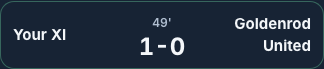
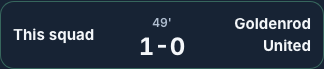
docs(copy): fix round 1 decision log, STATE and scoreboard proof
Claude-Session: https://claude.ai/code/session_01DTp1YoYMSvPZ3BKnAowv2J

Changed region(s): [[0.0309, 0.4058, 0.3086, 0.6377]]

diff --git a/docs/decisions/copy-pass.md b/docs/decisions/copy-pass.md
@@ -1,7 +1,8 @@
 # Copy pass and dash lint (Wave 4, row 4e)
 
-Branch `fix/copy-pass` off `origin/main` at `34af10e`. Yellow. No file under `src/engine`,
-`src/data` or `src/scouting` changed, so the goldens are untouched.
+Branch `fix/copy-pass` off `origin/main` at `34af10e`, with `origin/main` merged at `124afab`
+(PR #113, row 4-0) in fix round 1. Yellow. No file under `src/engine`, `src/data` or
+`src/scouting` changed, so the goldens are untouched.
 
 ## Scope
 
@@ -15,7 +16,9 @@ Branch `fix/copy-pass` off `origin/main` at `34af10e`. Yellow. No file under `sr
 - The blind-mode hints follow decision 3.
 - A shared run says "This squad" and "This lineup" where a live run says "You", "Your team",
   "Your XI", "Your squad" and "Your lineup". That covers the result card, the group table, the
-  replay's group table, the recorded saves and the match events.
+  replay's group table, the recorded saves and the match events. Since fix round 1 it also covers
+  the shared match player: the scoreboard, the full screen score bug, the momentum meter, the
+  tactic banner and the ticker.
 - Scores are "1-0" on the scoreboard, the penalties line, the full-time line and the exhibition.
 - The history page interpolates `HISTORY_LIMIT`.
 - `check:dashes` (`scripts/audit/dash-lint.mjs`) fails on an em or en dash in copy under `src`,
@@ -102,6 +105,59 @@ events, which the engine-1 unit fixture has none of.
 Regression guards, no RED (behaviour already correct): "a live run still says You and Your team",
 the history heading "Your last 50 runs" in `copy-pass.spec.ts`, and `lintDashes` finding no dash
 in `src` today.
+
+## Fix round 1
+
+`git merge origin/main` (never a rebase) brought in PR #113 (`124afab`) as merge commit `9353da8`.
+Only `STATE.md` conflicted, and `resolve-state.py` resolved it with the #113 paragraph. Git merged
+`MatchPlayer.tsx`, `MatchdayFlow.tsx` and `Touchline.tsx` on its own. After the merge no spaced
+score is left in them, and `pnpm check:dashes` passes with 4-0's new copy included.
+
+The carryover reproduced at the merge head. A shared run's replay still said "Your XI" on the
+scoreboard and score bug, "Your side 50%" on the momentum meter, "Your side switch to Defend" on
+the tactic banner and "75' Your assistant switches to Defend" in the ticker.
+
+RED `8d5558d`: 2 of 7 failed in 2 files. GREEN `3af2e35`.
+
+```
+ FAIL  src/components/matchday/__tests__/Broadcast.sharedSide.test.tsx > Broadcast tactic banner (catches a shared run's banner saying Your side) > a shared run says This squad switches to Defend
+AssertionError: expected 'Your side switch to Defend' to be 'This squad switches to Defend' // Object.is equality
+
+Expected: "This squad switches to Defend"
+Received: "Your side switch to Defend"
+
+ FAIL  src/components/results/__tests__/MatchReplay.test.tsx > MatchReplay on a shared run (catches the shared match player still saying Your XI and Your assistant) > names the shared side This squad on the scoreboard, the momentum meter and the ticker
+AssertionError: expected 'Your XI' to be 'This squad' // Object.is equality
+
+Expected: "This squad"
+Received: "Your XI"
+
+     × a shared run says This squad switches to Defend 37ms
+     × names the shared side This squad on the scoreboard, the momentum meter and the ticker 16ms
+ Test Files  2 failed (2)
+      Tests  2 failed | 5 passed (7)
+```
+
+The two live guards ("the live run still says Your side switch to Defend" and "keeps Your XI,
+Your side and Your assistant on the live run") passed at RED. They are regression guards with no
+RED.
+
+Decisions:
+
+- **Variant through props.** `MatchReplay` passes its `variant` to `MatchPlayer`, and
+  `MatchPlayer` passes it to `Broadcast`. Both default to `"live"`, so `MatchdayFlow` and the
+  exhibition replay keep "Your XI". The strings come from `SIDE_COPY`, which gains `ourSide`
+  ("Your side" or "This squad") and `switchesTo` (Model the Domain: one table, no new branches in
+  the components). The `TEAMS_USER` constant is gone.
+- **Ticker.** `beatLine` takes the same `shared` flag that `incidentText` already took, so the
+  ticker says what the results' match events say: "75' This squad's assistant switches to Defend".
+- **Banner grammar.** The live banner keeps "Your side switch to Defend", and an opponent keeps
+  "Goldenrod United switch to Defend". The shared banner reads "This squad switches to Defend",
+  the same verb the shared match events already use. The two shared lines read alike.
+- **Guard placement.** The scoreboard, meter and ticker guard renders `MatchReplay`, so it fails
+  if the replay stops passing `variant`. The banner guard renders `Broadcast` with only the 75'
+  switch marked as fired. In the golden G1 a sub fires on the same tick and would take the
+  banner.
 
 ## Measurements
 
@@ -194,8 +250,32 @@ All from hand-off 4.3, row 4e:
   it only shows where `aria-labelledby` is absent.
 - `ScoutingDossier.tsx:355` renders its own `"★ Best"`, `"OK"` and `"Poor"`. The visible words
   already match, so it is left to row 4f, which rewrites the dossier.
+- Fix round 1, at `9353da8`: the "Your side" banner is at `Broadcast.tsx:740`, not about `:665`.
+  `TEAMS_USER` also fed the full screen score bug (`MatchPlayer.tsx:926`) and the ticker, and the
+  momentum meter's `aria-valuetext` said "Your side" (`:645`). The fix brief named only the side
+  label and the banner. The decision "Shared view never says You" covers all four, so all four
+  changed.
 
 ## Gates
+
+Fix round 1 gates are at `3af2e35`, the code-identical head (the docs commit that follows changes
+only docs and proof PNGs):
+
+- `pnpm lint`, `pnpm typecheck` and `pnpm build` exited 0.
+- `pnpm test`: 1,692 passed in 198 files.
+- All eight `check:*` scripts exited 0.
+- Prettier passed on all 79 files changed against `origin/main`.
+- Playwright full suite (`CI=1`, headless, default workers, fresh build at `3af2e35`): 932
+  passed, 64 skipped, 1 failed. The failure was `fullscreen-score-bug.spec.ts:101` (chromium,
+  also on its retry). It opens a shared `/r/` run and expected "Your XI" in the score bug, which
+  now says "This squad0-0Goldenrod7'". That is this round's intended change. `fcc6eb9` updates that
+  literal and adds the side label and momentum checks to `copy-pass.spec.ts` (e2e only, no `src`
+  change). `copy-pass.spec.ts` and `fullscreen-score-bug.spec.ts` then passed 11 of 11 on the same
+  build. The full suite was not re-run after `fcc6eb9`.
+- Browser proof: `docs/reports/copy-pass/scoreboard-390.png` now shows "This squad 1-0" at 49'
+  on the shared replay.
+
+Round 0 gates follow.
 
 At `287150e` (code identical at the docs commit):
 
@@ -224,8 +304,7 @@ At `429b448`: `pnpm lint` and `pnpm typecheck` exited 0, `pnpm test` passed 1,67
 
 ## Carryovers
 
-- A shared run's match replay still says "Your XI" on the scoreboard and ticker
-  (`MatchPlayer.tsx:99` `TEAMS_USER`) and "Your side" in a Broadcast callout
-  (`Broadcast.tsx:665`). The brief limited this row's `MatchPlayer.tsx` edits to the score strings
-  because row 4-0 edits that file. A follow-up passes the side name into `MatchPlayer`.
+- Closed in fix round 1: the shared match player's "Your XI" and "Your side" (see Fix round 1).
+- A shared ticker goal line reads "Goal for This squad!", the side's name in title case, as the
+  live line reads "Goal for Your XI!".
 - `ScoutingDossier.tsx:355` keeps an inline "★ Best" (row 4f).

diff --git a/STATE.md b/STATE.md
@@ -5,23 +5,29 @@ and its squash SHA are recorded in the next PR's STATE update.
 
 ## Copy pass and dash lint
 
-Branch `fix/copy-pass` off `origin/main` at `34af10e`. Wave 4 row 4e, copy and labels (Yellow). No file under `src/engine`, `src/data` or `src/scouting` changed.
+Branch `fix/copy-pass` off `origin/main` at `34af10e`, with `origin/main` merged at `124afab` (PR #113) in fix round 1. Wave 4 row 4e, copy and labels (Yellow). No file under `src/engine`, `src/data` or `src/scouting` changed.
 
 - Position fit reads "★ Best", "OK" and "Poor" everywhere (pitch cards, slot names, the picker swap line and the touchline bench), from one `SUITABILITY_LABEL` table. The star is hidden from screen readers, so a slot reads "Empty LW slot (Best fit)".
 - The draft drawer says "Hide players", "Show players" and "Show roll" (it said "Minimize draft picker" and "View spinner"). Empty slots say "Tap to draft".
 - Every score uses a hyphen with no spaces: "1-0" on the scoreboard, "Pens 4-3", "Full time. Win, 3-1." and the exhibition result.
-- A shared run (`/r/[token]`) names the side "This squad" in the record, standings, match list, highlights, saves and match events ("Kick off: this squad plays Attack", "manager's call"). The live run still says "You" and "Your". The share payload carries no nickname, so none is shown.
+- A shared run (`/r/[token]`) names the side "This squad" in the record, standings, match list, highlights, saves and match events ("Kick off: this squad plays Attack", "manager's call"). Its match replay says "This squad" too: the scoreboard, the full screen score bug, the momentum meter, the ticker and the tactic banner ("This squad switches to Defend"). The live run still says "You", "Your XI" and "Your side". The share payload carries no nickname, so none is shown.
 - The match list meter labels sit in a grid, so "THIS SQUAD" no longer wraps. For a "You" label the geometry is unchanged (label 51.0 px left and 33.8 px wide, track 92.8 px left and 215.5 px wide, before and after).
 - Settings and Play card hints say "ratings" for the hidden numbers, the road tooltip says "Rating", the history page reads its 50 from `HISTORY_LIMIT`.
 - New `pnpm check:dashes` (`scripts/audit/dash-lint.mjs`) fails on an em or en dash, or its escape or HTML entity, in any string, template or JSX text under `src` and in CSS `content`. It skips tests and `src/engine/versions`. CI runs it after `check:theme-colors`.
 
-RED commits: `84aec88` (31 of 166 failed in 19 files, plus `dash-lint.test.ts` failed to load) and `1449ed8` (2 of 41 failed in 2 files, shared match events). GREEN `18cf3e2` and `028b6f3`.
+RED commits: `84aec88` (31 of 166 failed in 19 files, plus `dash-lint.test.ts` failed to load), `1449ed8` (2 of 41 failed in 2 files, shared match events) and `8d5558d` (2 of 7 failed in 2 files, the shared match player). GREEN `18cf3e2`, `028b6f3` and `3af2e35`.
+
+Gates at `3af2e35` (fix round 1, after the merge of `124afab`; the commits after it change only e2e specs, docs and one proof PNG): `pnpm lint`, `pnpm typecheck` and `pnpm build` exited 0. `pnpm test` passed 1,692 in 198 files. All eight `check:*` scripts exited 0, and Prettier passed on all 79 files changed against `origin/main`. Playwright full suite (`CI=1`, headless, fresh build at `3af2e35`): 932 passed, 64 skipped, 1 failed, `fullscreen-score-bug.spec.ts:101` (chromium) expecting the old "Your XI" in a shared run's score bug. `fcc6eb9` updates that literal in the spec only, and `copy-pass.spec.ts` with `fullscreen-score-bug.spec.ts` then passed 11 of 11 on the same build. The full suite was not re-run after `fcc6eb9`.
+
+Round 0 gates follow.
 
 Gates at `287150e`: `pnpm lint`, `pnpm typecheck` and `pnpm build` exited 0. `pnpm test` passed 1,678 in 195 files. All eight `check:*` scripts exited 0, as did `check-retained-replays.mts` (10 golden replays) and `measure-retained-json.mjs`. Playwright full suite (`CI=1`, headless, fresh build): 921 passed, 64 skipped, 2 failed, both `manager-mode.spec.ts:54` (chromium and pixel-7) expecting the old shared line "Kick off: you play Attack". `429b448` updates that literal in the spec only, and `manager-mode.spec.ts` then passed 14 of 14 on the same build. `e2e/copy-pass.spec.ts` passed 7 of 7. At `429b448`: lint and typecheck exited 0, `pnpm test` passed 1,678 in 195 files, `check:dashes` exited 0, Prettier passed.
 
-NOT RUN: review, hosted CI and the live check (coordinator); `pnpm data:pokedex` and `pnpm data:scouting` (no data change); the physical phone check and a screen reader pass (owner actions).
+NOT RUN: review, hosted CI and the live check (coordinator); the full Playwright suite after `fcc6eb9`; `check-retained-replays.mts` and `measure-retained-json.mjs` in fix round 1; `pnpm data:pokedex` and `pnpm data:scouting` (no data change); the physical phone check and a screen reader pass (owner actions).
 
 Decision log: `docs/decisions/copy-pass.md`. Proof: `docs/reports/copy-pass/`.
+
+Merge status, the squash SHA and the reviewer receipt go into the next STATE update.
 
 ## Matchday carryovers
 
